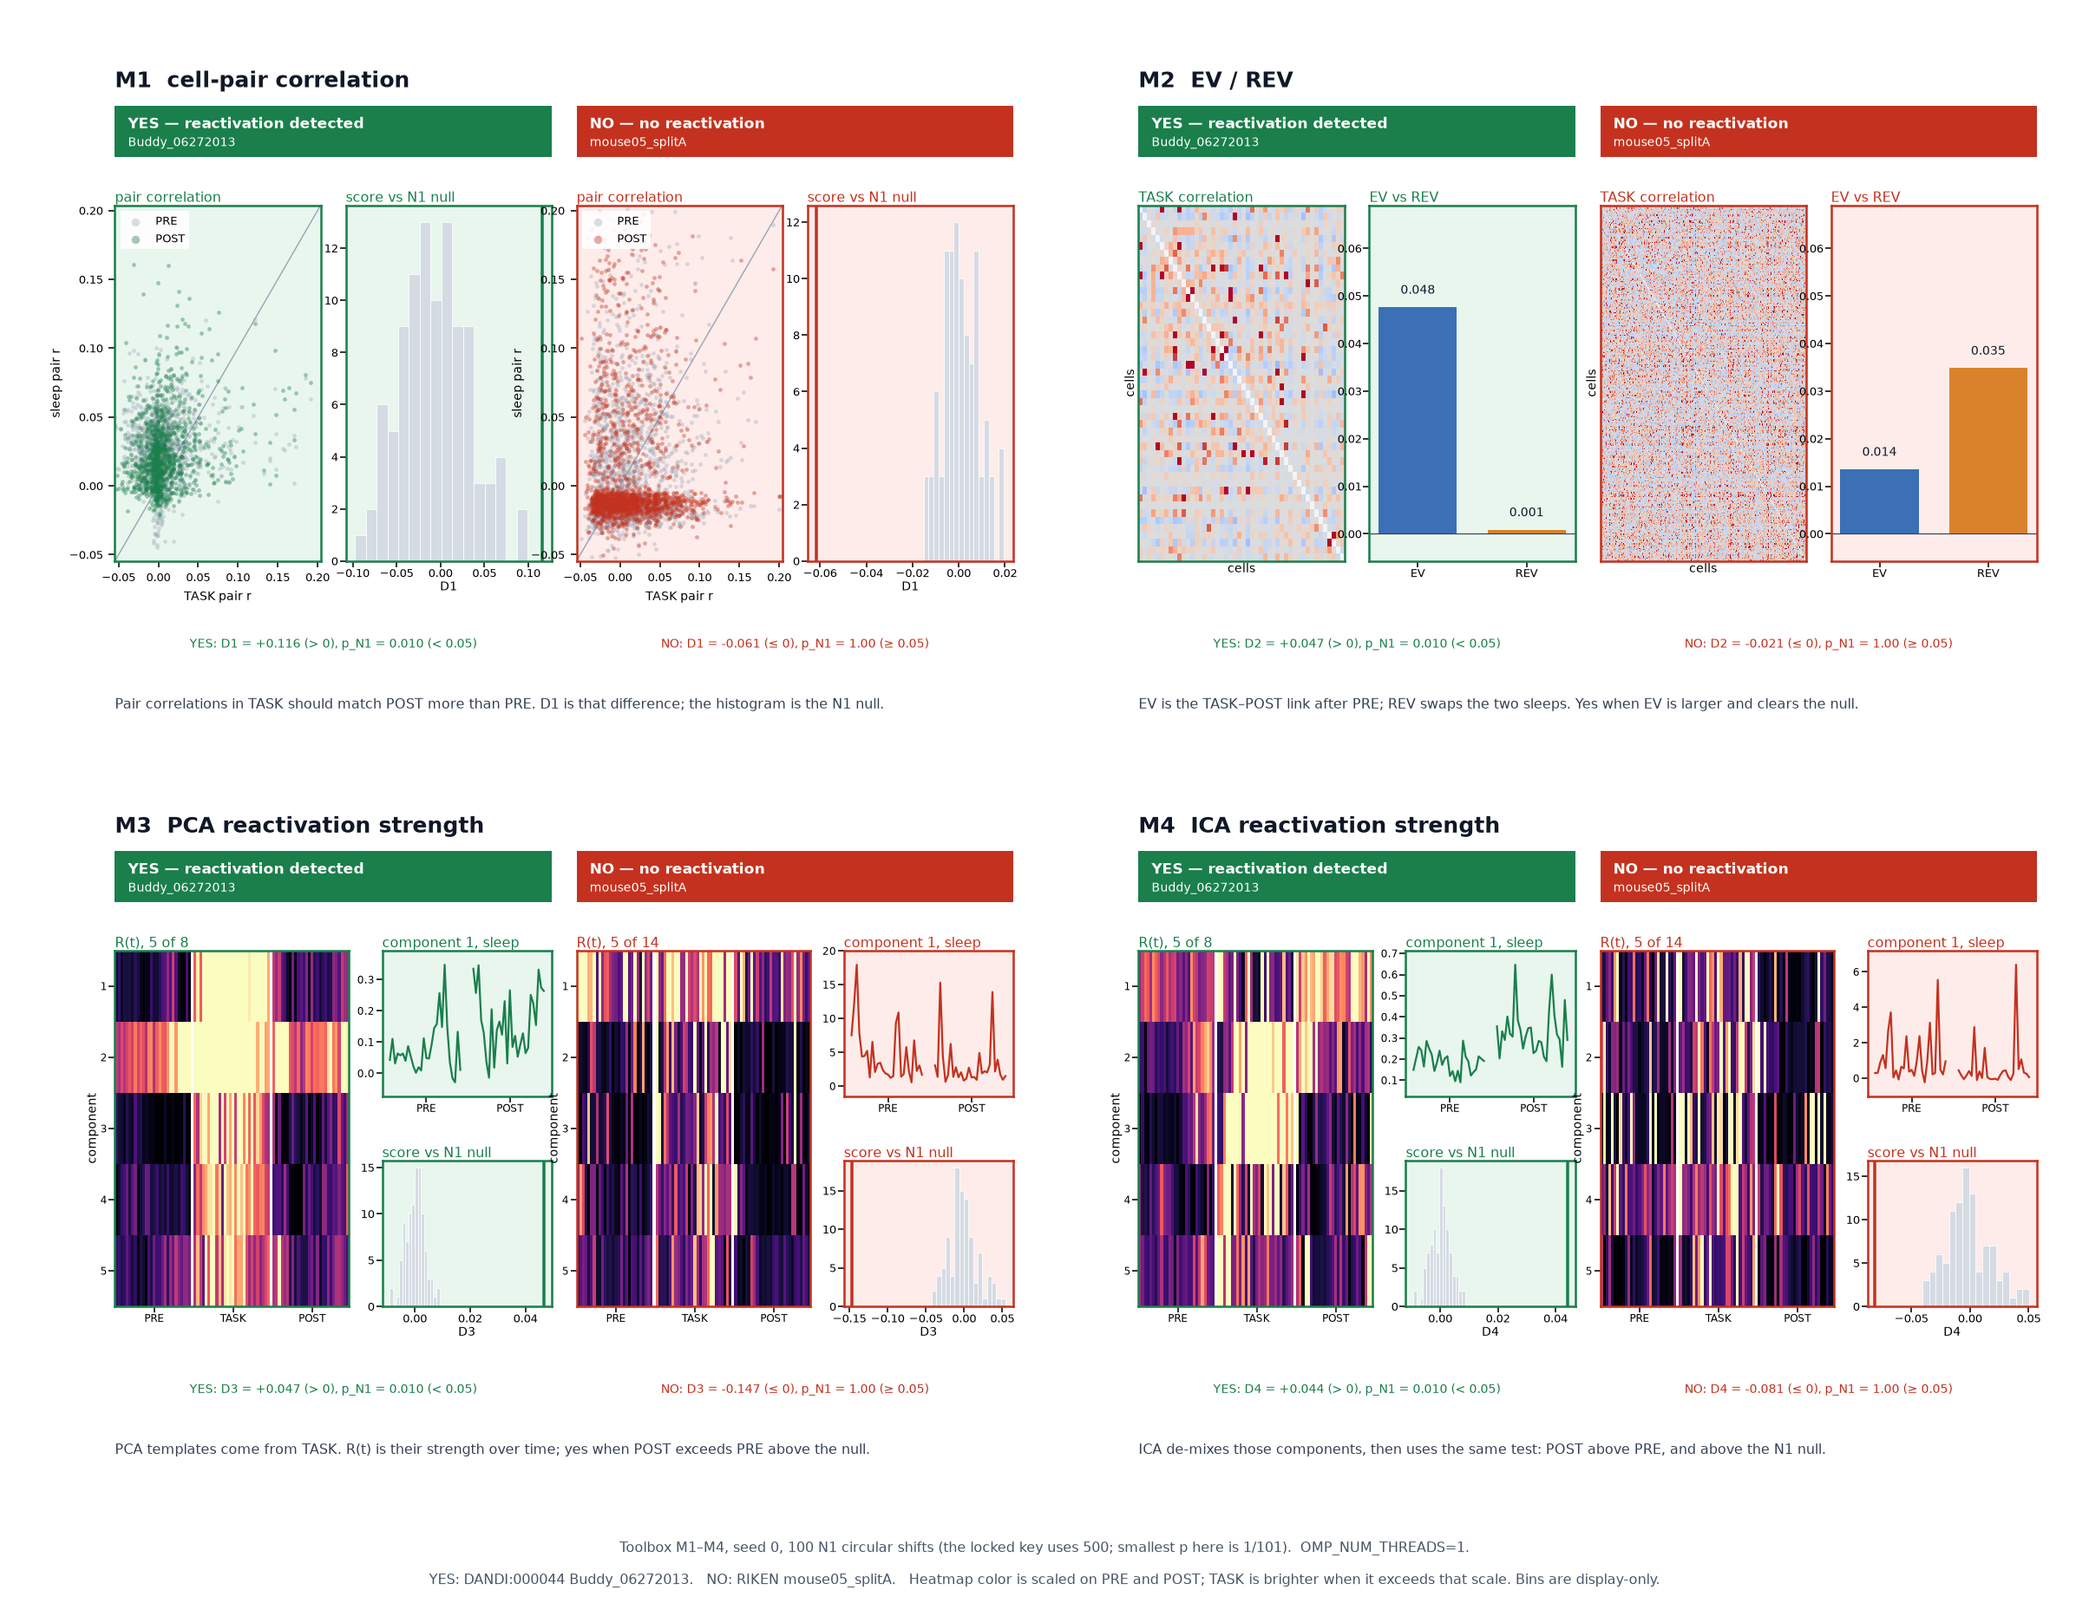
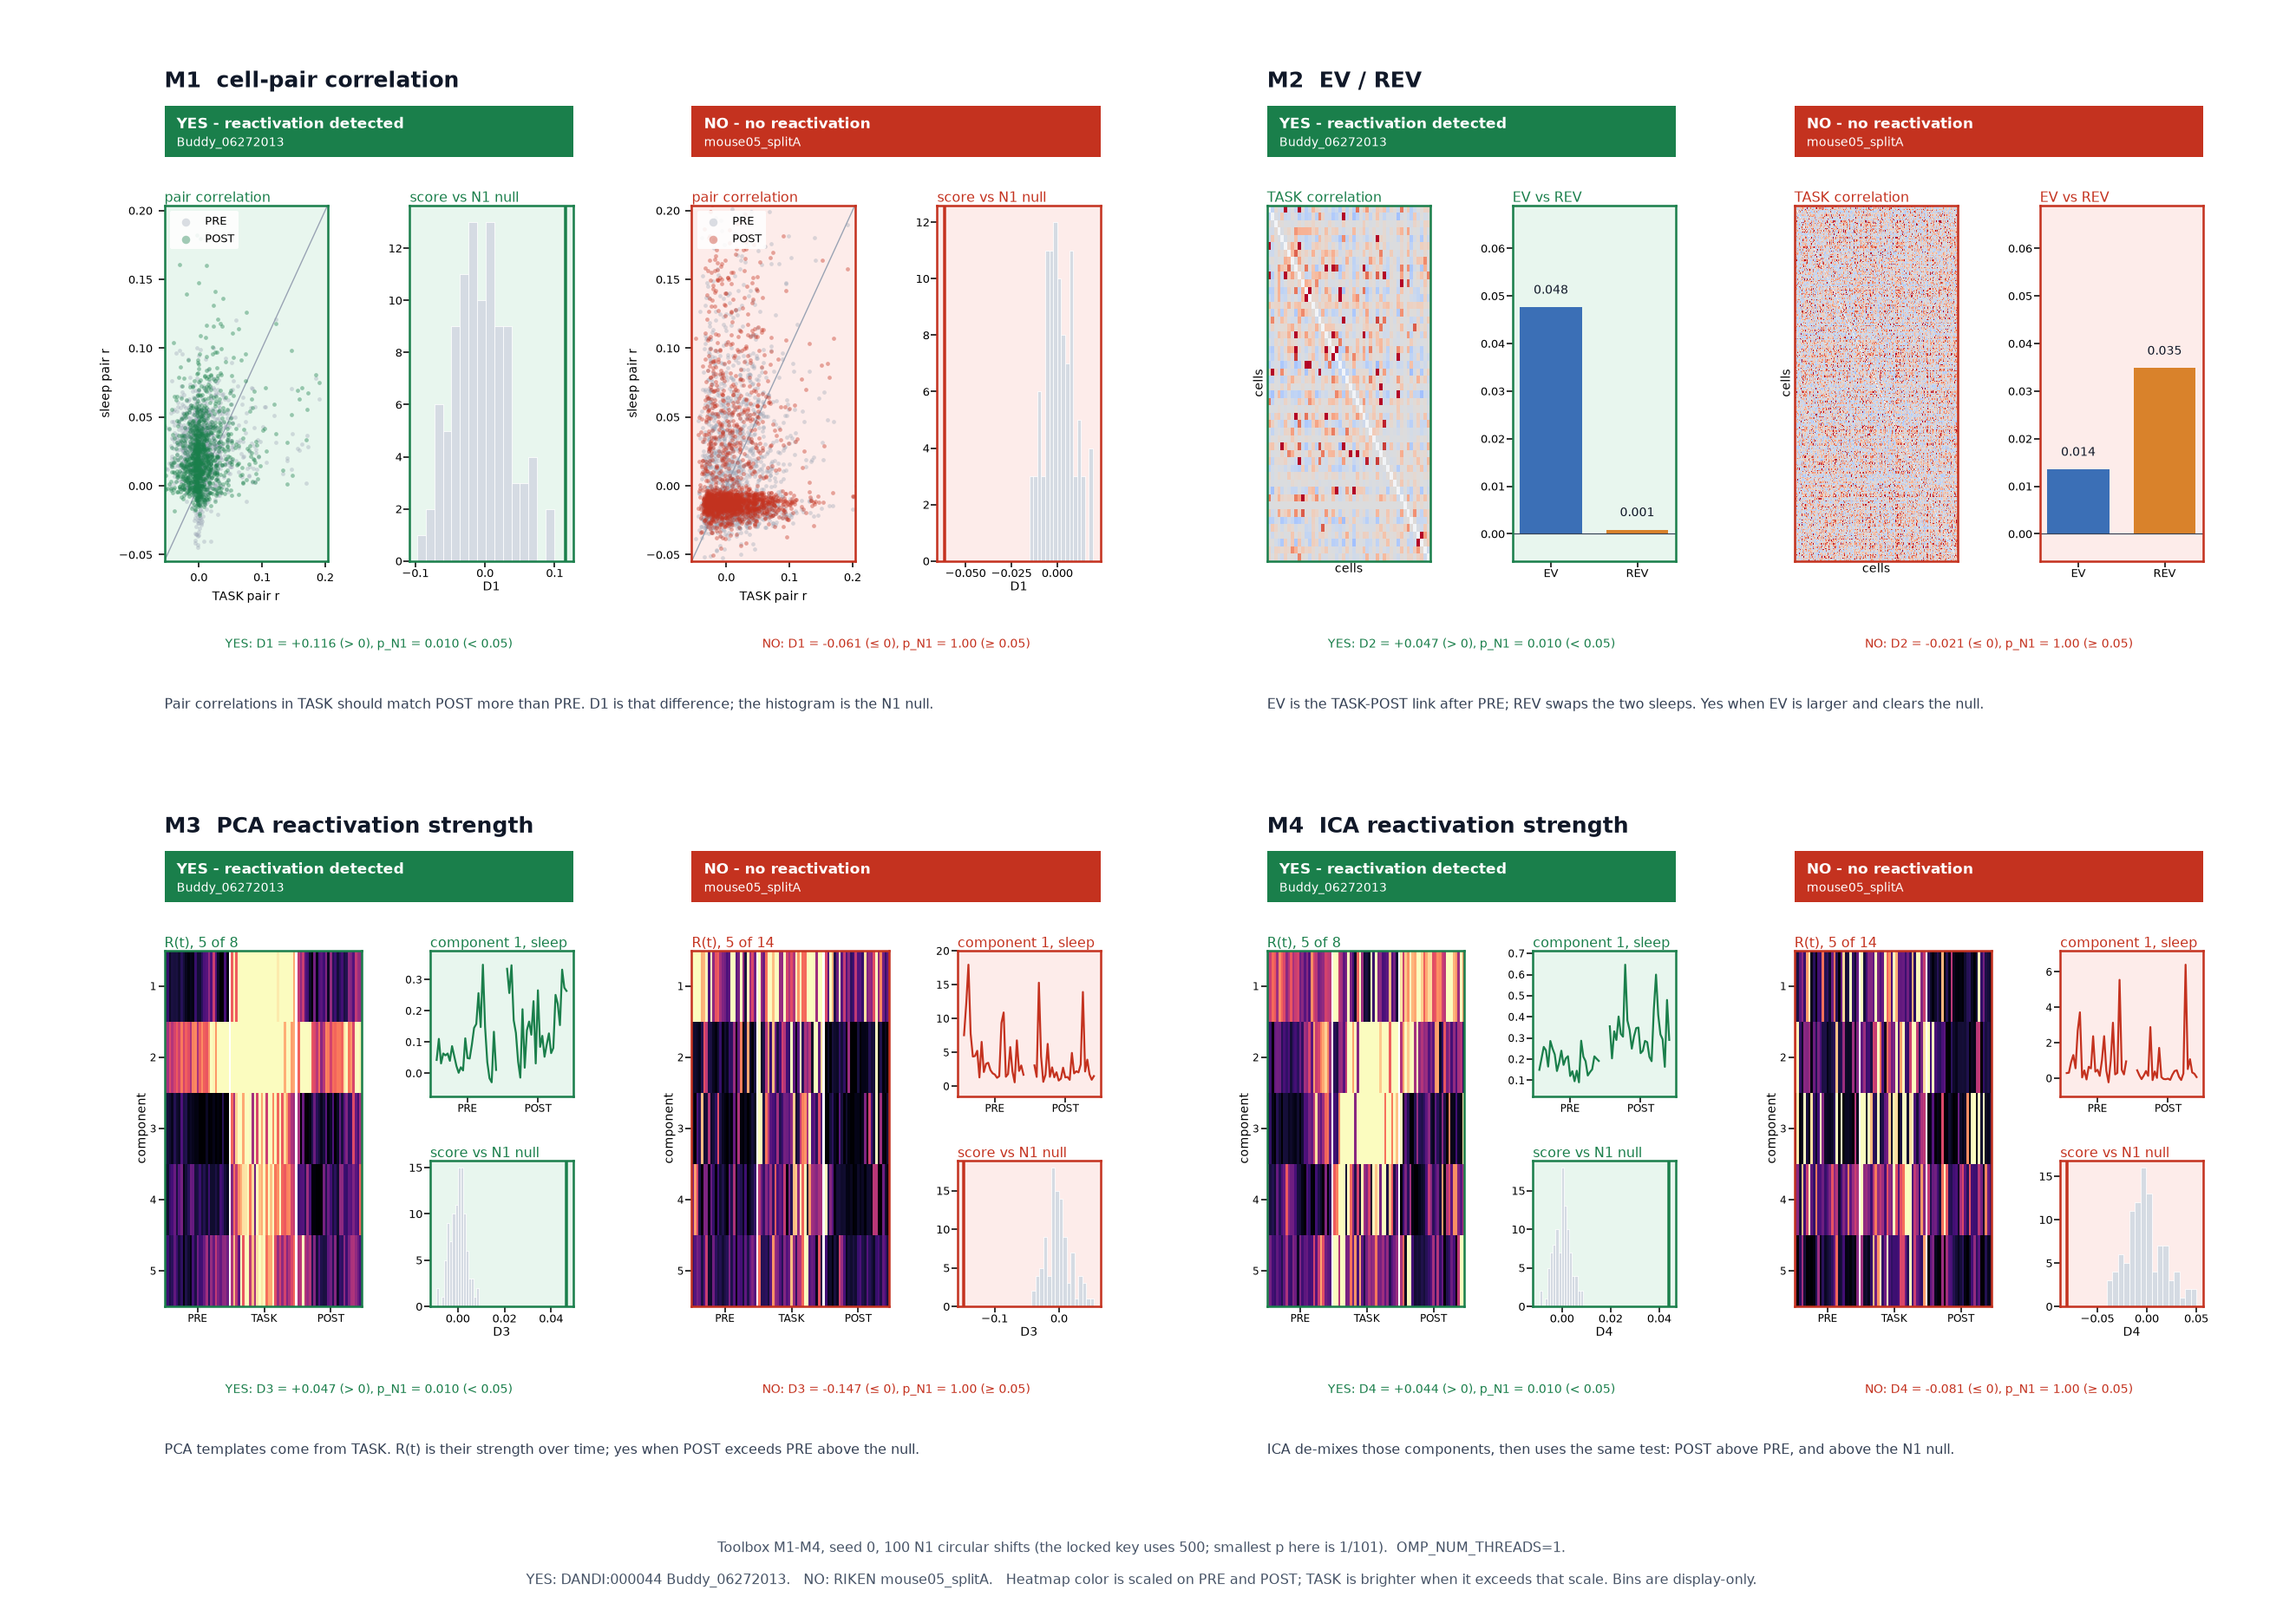
fix: separate method-panel labels and drop em dashes
The yes and no halves were close enough that axis labels ran into the neighbouring plot.

diff --git a/scripts/plot_method_panels.py b/scripts/plot_method_panels.py
@@ -1,4 +1,4 @@
-"""Yes/no panels for M1–M4, one method per quadrant.
+"""Yes/no panels for M1-M4, one method per quadrant.
 
 YES is a DANDI:000044 positive-control session (local NWB).
 NO is RIKEN mouse05 split A.
@@ -64,7 +64,7 @@ NO_BG = "#fdecea"
 
 EXPLAINS = {
     "M1": "Pair correlations in TASK should match POST more than PRE. D1 is that difference; the histogram is the N1 null.",
-    "M2": "EV is the TASK–POST link after PRE; REV swaps the two sleeps. Yes when EV is larger and clears the null.",
+    "M2": "EV is the TASK-POST link after PRE; REV swaps the two sleeps. Yes when EV is larger and clears the null.",
     "M3": "PCA templates come from TASK. R(t) is their strength over time; yes when POST exceeds PRE above the null.",
     "M4": "ICA de-mixes those components, then uses the same test: POST above PRE, and above the N1 null.",
 }
@@ -345,7 +345,7 @@ def _sleep_vlim(image: np.ndarray) -> tuple[float, float]:
 def _split_pair(fig, rect):
     """Two axes side by side inside a figure-fraction rectangle."""
     x, y, w, h = rect
-    gap = 0.012
+    gap = 0.036
     aw = (w - gap) / 2
     return fig.add_axes([x, y, aw, h]), fig.add_axes([x + aw + gap, y, aw, h])
 
@@ -386,7 +386,7 @@ def _draw_m2(fig, rect, block, color, bg, ylim) -> None:
 
 def _draw_strength(fig, rect, block, color, bg, score_name: str) -> None:
     x, y, w, h = rect
-    gap = 0.016
+    gap = 0.030
     left_w = (w - gap) * 0.58
     right_w = (w - gap) * 0.42
     ax_h = fig.add_axes([x, y, left_w, h])
@@ -467,26 +467,26 @@ def plot(payload: dict) -> None:
         "savefig.facecolor": "white",
         "axes.titlepad": 2,
     })
-    fig = plt.figure(figsize=(17.2, 13.2))
+    fig = plt.figure(figsize=(18.8, 13.2))
     # Explicit rectangles, in figure fractions, so labels cannot collapse onto each other.
     panels = [
-        ("M1  cell-pair correlation", "m1", (0.055, 0.55, 0.43, 0.41)),
-        ("M2  EV / REV", "m2", (0.545, 0.55, 0.43, 0.41)),
-        ("M3  PCA reactivation strength", "m3", (0.055, 0.085, 0.43, 0.41)),
-        ("M4  ICA reactivation strength", "m4", (0.545, 0.085, 0.43, 0.41)),
+        ("M1  cell-pair correlation", "m1", (0.072, 0.55, 0.41, 0.41)),
+        ("M2  EV / REV", "m2", (0.555, 0.55, 0.41, 0.41)),
+        ("M3  PCA reactivation strength", "m3", (0.072, 0.085, 0.41, 0.41)),
+        ("M4  ICA reactivation strength", "m4", (0.555, 0.085, 0.41, 0.41)),
     ]
     score_name = {"m1": "D1", "m2": "D2", "m3": "D3", "m4": "D4"}
     for title, key, (x, y, w, h) in panels:
         fig.text(x, y + h - 0.004, title, ha="left", va="top", fontsize=13, fontweight="bold", color="#101828")
-        half_gap = 0.012
+        half_gap = 0.052
         hw = (w - half_gap) / 2
         banner_h = 0.032
         banner_y = y + h - 0.058
         plot_y = y + 0.100
         plot_h = banner_y - plot_y - 0.030
         for i, (side, color, bg, tag) in enumerate((
-            ("yes", YES_C, YES_BG, "YES — reactivation detected"),
-            ("no", NO_C, NO_BG, "NO — no reactivation"),
+            ("yes", YES_C, YES_BG, "YES - reactivation detected"),
+            ("no", NO_C, NO_BG, "NO - no reactivation"),
         )):
             hx = x + i * (hw + half_gap)
             label = yes_id if side == "yes" else no_id
@@ -505,7 +505,7 @@ def plot(payload: dict) -> None:
 
     fig.text(
         0.5, 0.034,
-        f"Toolbox M1–M4, seed {SEED}, {N_SHUFFLES} N1 circular shifts "
+        f"Toolbox M1-M4, seed {SEED}, {N_SHUFFLES} N1 circular shifts "
         f"(the locked key uses 500; smallest p here is 1/{N_SHUFFLES + 1:.0f}).  OMP_NUM_THREADS=1.",
         ha="center", va="center", fontsize=8, color="#475467",
     )
